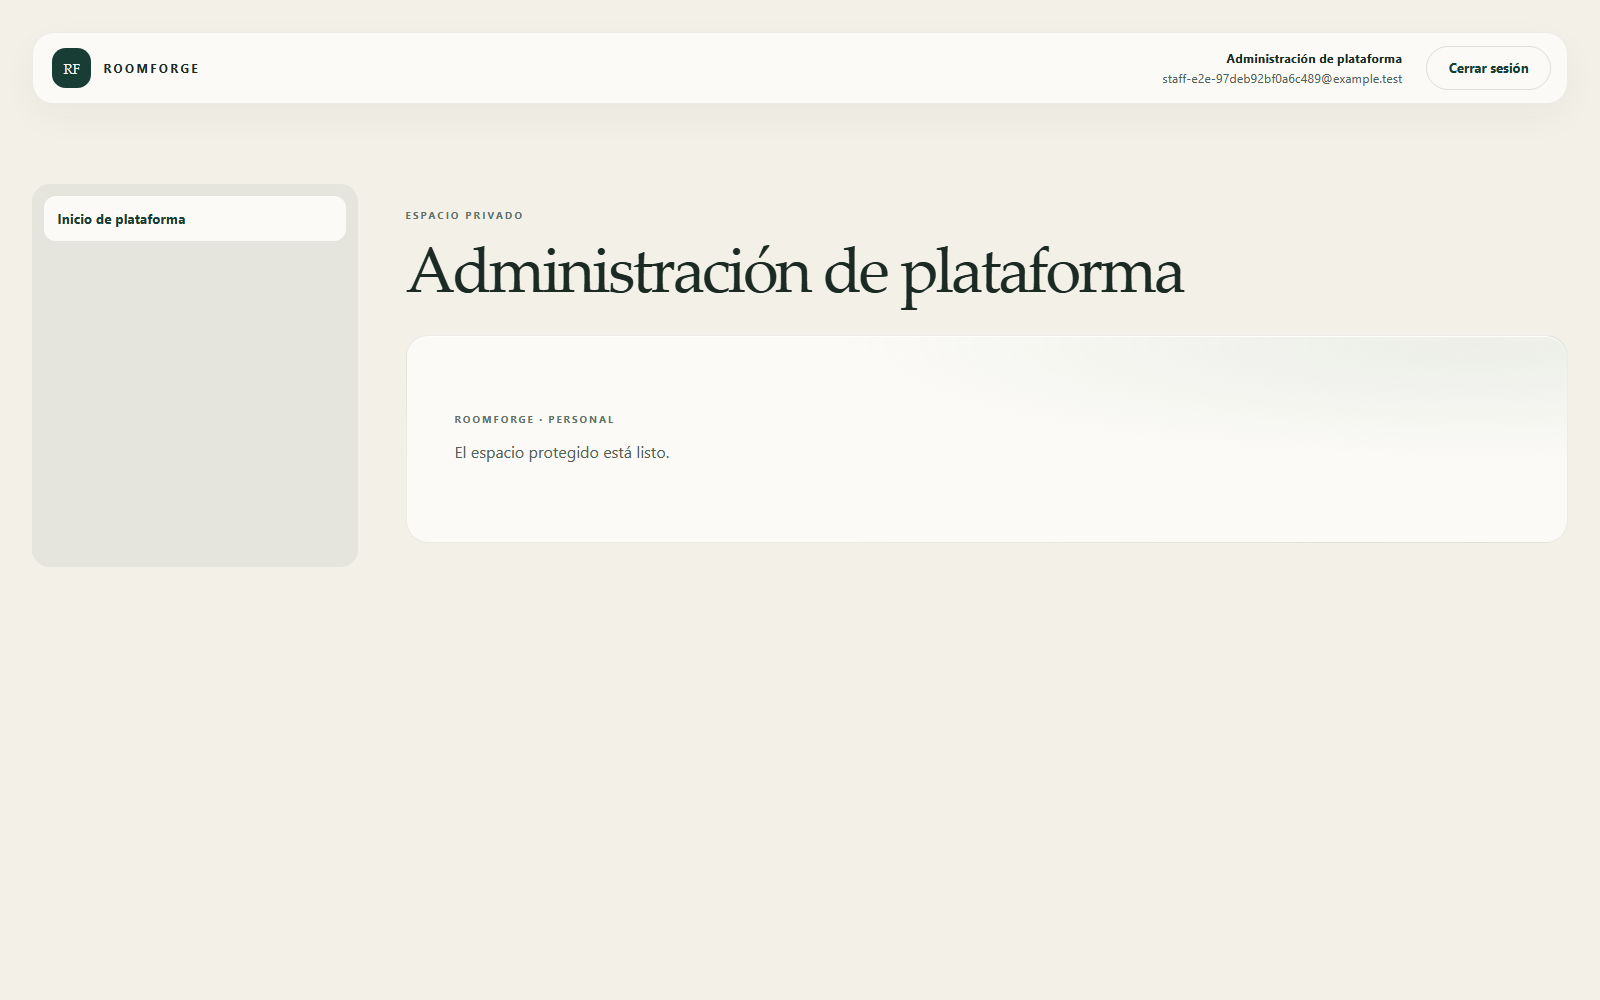
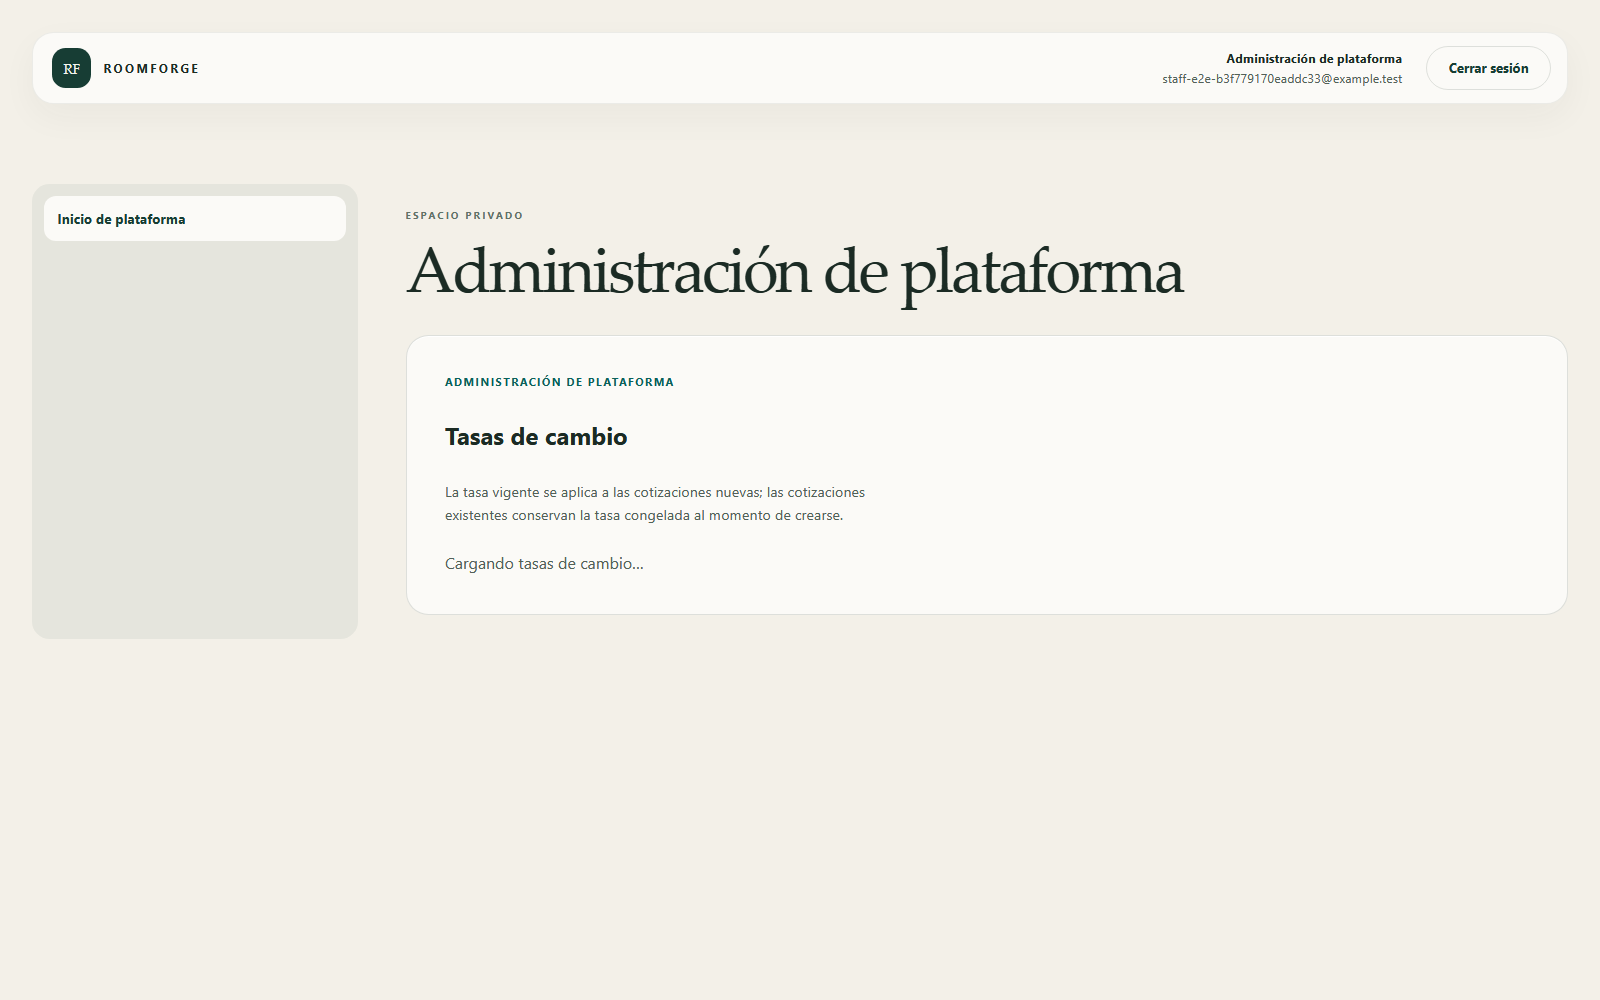
test(e2e): cover exchange-rate administration with panel captures

Changed region(s): [[0.2812, 0.372, 0.5312, 0.527], [0.2812, 0.558, 0.4062, 0.589], [0.75, 0.062, 0.8125, 0.093]]

diff --git a/docs/plan-maestro-roomforge.md b/docs/plan-maestro-roomforge.md
@@ -533,6 +533,8 @@ Después del corte documentado en §1.4, el trabajo F01 se integró en `origin/m
 
 **Avance en rama, pendiente de integración (2026-10-04, `feat/f05-multi-currency`):** la unidad F05M completó F05.1 y añadió multi-moneda por decisión explícita del usuario. F05.1 ✅ en API: `ListingExtra` con categoría, habitación, dimensiones (cm), procedencia, vínculo visual y cantidad (migración `0016`), autoría de extras por diff de ID estable en POST/PUT de listings (la regla histórica «La API F04 no modifica extras» quedó reemplazada), totales `Σ(precio × cantidad)`; la UI editable de mobiliario en las apps queda pendiente. Multi-moneda: monedas soportadas exactamente `BOB`, `USD`, `USDT` (COP reemplazado — esta decisión sustituye la línea de F00 que confirmaba COP; la fila F00 de §1.4.1 se actualiza al integrar), tasas administradas contra USD por `platform_admin` (`exchange_rates`, sin API externa), cotización en moneda elegida con tasa congelada en la instantánea (migraciones `0013`–`0015`), moneda inmutable tras crear el inmueble, panel con administración de tasas, app cliente con moneda de visualización y app de captura con selección al crear. USDT también como activo del escrow: el contrato acepta tokens con decimales ≥ 2 y un `MockUSDT` de 6 decimales recorre el flujo completo de reserva (la escala por moneda es responsabilidad del backend, `TOKEN_UNIT_SCALES`). Evidencia: backend 579/3, panel 116/116, cliente 83/83, captura 86/86, Hardhat 40/40, Ruff limpio, Pyright en baseline (18 diagnósticos preexistentes), cadena completa de migraciones hasta `0016 (head)` en PostgreSQL 16 desechable con pruebas con guardas en verde. Límites: sin recorridos manuales integrados de la fase (quedan para el usuario, incluida la reserva contra el escrow), PostgreSQL solo en bases descartables, moneda de visualización del cliente sin persistir, sin flujo de cotización en la app cliente. Registro en `odd/tasks/f05-currency-offers.md`.
 
+**E2E y capturas de la fase (2026-10-04):** el único E2E del repositorio (`panel/staff-shell/e2e/staff-login.e2e.test.mjs`) se extendió con la bandeja de tasas del `platform_admin`: después de la restauración de sesión verifica la pantalla «Tasas de cambio», registra una tasa BOB de 6.96000000 unidades por USD desde el formulario contra la API real y captura el resultado. Generó dos capturas nuevas (`f05-platform-rates-admin.png`, `f05-platform-rates-admin-created.png`) y regeneró las cinco previas; el inventario y los límites están en `docs/capturas/README.md`. La captura de la documentación de la API sigue sin producirse (límite de Swagger UI ya registrado en §1.4.2.bis). El flujo previo (login, TOTP, `/me`, restauración, logout y negativos de CSRF) sigue en verde.
+
 ### F05.1 — Inventario confirmado
 
 - **Acciones:** crear objetos manualmente con ID estable, categoría, habitación, dimensiones/origen y vínculo visual. Separar detección IA no confirmada del inventario comercial.

diff --git a/docs/capturas/README.md b/docs/capturas/README.md
@@ -11,6 +11,8 @@ Estas imágenes se generan durante una ejecución real del E2E del panel de pers
 | `f03-staff-totp-verification.png` | Pantalla del segundo paso de verificación, antes de ingresar el código TOTP. | F03 — identidad y sesión. | `cd panel/staff-shell && npm run test:e2e` | 1600 × 1000 px |
 | `f03-staff-protected-view-login.png` | Vista protegida de administración inmediatamente después de iniciar sesión. | F03 — identidad y sesión. | `cd panel/staff-shell && npm run test:e2e` | 1600 × 1000 px |
 | `f03-staff-protected-view-reload.png` | La misma vista protegida luego de recargar la página; evidencia visual de la restauración de sesión. | F03 — identidad y sesión. | `cd panel/staff-shell && npm run test:e2e` | 1600 × 1000 px |
+| `f05-platform-rates-admin.png` | Pantalla «Tasas de cambio» del `platform_admin` recién autenticado: USD fijo como referencia de conversión y BOB/USDT sin tasa administrada aún. | F05 — tasas administradas (multi-moneda). | `cd panel/staff-shell && npm run test:e2e` | 1600 × 1000 px |
+| `f05-platform-rates-admin-created.png` | La misma pantalla después de registrar una tasa BOB de 6.96000000 unidades por USD desde el formulario: tasa vigente, historial y aviso «Tasa registrada». | F05 — tasas administradas (multi-moneda). | `cd panel/staff-shell && npm run test:e2e` | 1600 × 1000 px |
 | `f04-staff-publication-api-docs.png` | **No disponible: no se generó PNG.** El intento contra `/docs` no logró mostrar en Swagger UI la ruta OpenAPI `/api/v1/staff/agencies/{agency_id}/listings/{listing_id}/deposit`, por lo que no se guardó una captura incompleta. | F04 — publicación de inmuebles (API, sin UI propia). | `cd panel/staff-shell && npm run test:e2e` | No aplica |
 
 Desde la raíz del repositorio, el comando exacto de reproducción es:
@@ -26,5 +28,5 @@ El E2E guarda las imágenes en `docs/capturas/`. Se puede cambiar el destino con
 - Las capturas corresponden al servidor de desarrollo de Vite y a una cuenta ficticia sembrada por la prueba, contra un contenedor PostgreSQL aislado y descartable. No representan un entorno desplegado ni datos reales.
 - Las aplicaciones móviles no tienen capturas: en este entorno no hay un dispositivo ni un emulador disponible.
 - F01 es infraestructura y F04 es una superficie de backend; ninguna tiene una UI propia. Para F04 solo se intentó capturar la documentación de la API en `/docs`, pero Swagger UI no mostró una de las rutas de publicación requeridas y no se produjo una imagen.
-- Ninguna imagen fue retocada, recortada ni fabricada: las cinco PNG disponibles proceden directamente de la ejecución real del navegador.
+- Ninguna imagen fue retocada, recortada ni fabricada: las siete PNG disponibles proceden directamente de la ejecución real del navegador (2026-10-04, rama `feat/f05-multi-currency`).
 - La contraseña solo aparece enmascarada en el formulario. No se capturan el secreto TOTP, JWT, token de acceso ni valor CSRF en texto claro.
